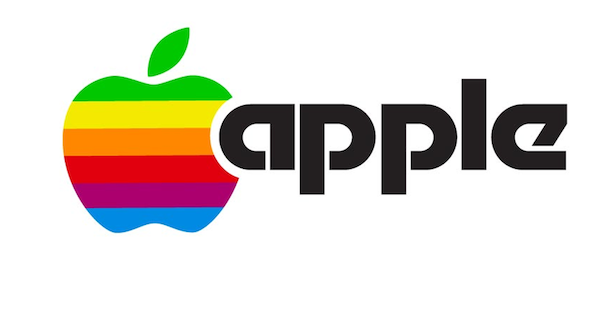
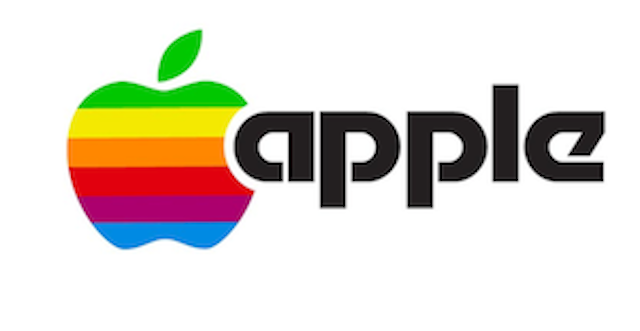
Publish deploy 2021-12-08 13:44

diff --git a/home/first-post/index.html b/home/first-post/index.html
@@ -1,1 +1,1 @@
-<!DOCTYPE html><html><head><meta charset="UTF-8"/><meta name="og:site_name" content="Blog"/><link rel="canonical" href="https://your-website-url.com/home/first-post"/><meta name="twitter:url" content="https://your-website-url.com/home/first-post"/><meta name="og:url" content="https://your-website-url.com/home/first-post"/><title>About myself! | Blog</title><meta name="twitter:title" content="About myself! | Blog"/><meta name="og:title" content="About myself! | Blog"/><meta name="description" content="Why I chose to create a Swift blog."/><meta name="twitter:description" content="Why I chose to create a Swift blog."/><meta name="og:description" content="Why I chose to create a Swift blog."/><meta name="twitter:card" content="summary_large_image"/><link rel="stylesheet" href="/styles.css" type="text/css"/><meta name="viewport" content="width=device-width, initial-scale=1.0"/><link rel="shortcut icon" href="/images/favicon.png" type="image/png"/><link rel="alternate" href="/feed.rss" type="application/rss+xml" title="Subscribe to Blog"/><meta name="twitter:image" content="https://your-website-url.com/Images/apple.png"/><meta name="og:image" content="https://your-website-url.com/Images/apple.png"/></head><body><div class="wrapper"><h3><a href="/">The Swift Refresher</a></h3></div><div class="nav-bar"><a href="/home">Home</a><a href="/combine">Combine</a><a href="/swiftUI">SwiftUI</a><a href="/dataStructures">Data Structures</a><a href="/algorithms">Algorithms</a><a href="/about">About</a></div><br/><img src="/Images/apple.png"/><br/><div class="item-article-body"><article><h1>About myself!</h1><p>Hello everyone! My name is Alex Stevens, and I decided to do what a million other people have already done. Start a Swift blog. I feel this will be a good way to advance my iOS domain knowledge, as well as serve as a point of reference for future job interviews. I plan to cover all aspects of iOS Development from Computer Science algorithms, to App Extensions, to SwiftUI/Combine.</p><p>I hope everyone joins me in on this journey, and I hope this will be a good resource to any iOS Engineer out there, no matter what part of your journey you are on. From a new grad, or a seasoned engineer looking to crack into the mobile development space, welcome!</p><p>--Alex</p></article></div><div class="footer"><div>© 2021 Blog</div><div>Generated using <a href="https://github.com/johnsundell/publish">Publish</a>. Written in Swift</div></div></body></html>
+<!DOCTYPE html><html><head><meta charset="UTF-8"/><meta name="og:site_name" content="Blog"/><link rel="canonical" href="https://your-website-url.com/home/first-post"/><meta name="twitter:url" content="https://your-website-url.com/home/first-post"/><meta name="og:url" content="https://your-website-url.com/home/first-post"/><title>About myself! | Blog</title><meta name="twitter:title" content="About myself! | Blog"/><meta name="og:title" content="About myself! | Blog"/><meta name="description" content="Why I chose to create a Swift blog."/><meta name="twitter:description" content="Why I chose to create a Swift blog."/><meta name="og:description" content="Why I chose to create a Swift blog."/><meta name="twitter:card" content="summary_large_image"/><link rel="stylesheet" href="/styles.css" type="text/css"/><meta name="viewport" content="width=device-width, initial-scale=1.0"/><link rel="shortcut icon" href="/images/favicon.png" type="image/png"/><link rel="alternate" href="/feed.rss" type="application/rss+xml" title="Subscribe to Blog"/><meta name="twitter:image" content="https://your-website-url.com/Images/apple.png"/><meta name="og:image" content="https://your-website-url.com/Images/apple.png"/></head><body><div class="wrapper"><h3><a href="/">The Swift Refresher</a></h3></div><div class="nav-bar"><a href="/home">Home</a><a href="/combine">Combine</a><a href="/swiftUI">SwiftUI</a><a href="/dataStructures">Data Structures</a><a href="/algorithms">Algorithms</a><a href="/about">About</a></div><br/><img src="/Images/apple.png" class="post-image"/><br/><div class="item-article-body"><article><h1>About myself!</h1><p>Hello everyone! My name is Alex Stevens, and I decided to do what a million other people have already done. Start a Swift blog. I feel this will be a good way to advance my iOS domain knowledge, as well as serve as a point of reference for future job interviews. I plan to cover all aspects of iOS Development from Computer Science algorithms, to App Extensions, to SwiftUI/Combine.</p><p>I hope everyone joins me in on this journey, and I hope this will be a good resource to any iOS Engineer out there, no matter what part of your journey you are on. From a new grad, or a seasoned engineer looking to crack into the mobile development space, welcome!</p><p>--Alex</p></article></div><div class="footer"><div>© 2021 Blog</div><div>Generated using <a href="https://github.com/johnsundell/publish">Publish</a>. Written in Swift</div></div></body></html>

diff --git a/home/index.html b/home/index.html
@@ -1,1 +1,1 @@
-<!DOCTYPE html><html><head><meta charset="UTF-8"/><meta name="og:site_name" content="Blog"/><link rel="canonical" href="https://your-website-url.com"/><meta name="twitter:url" content="https://your-website-url.com"/><meta name="og:url" content="https://your-website-url.com"/><title>Welcome to My Blog! | Blog</title><meta name="twitter:title" content="Welcome to My Blog! | Blog"/><meta name="og:title" content="Welcome to My Blog! | Blog"/><meta name="description" content="A description of A Blog"/><meta name="twitter:description" content="A description of A Blog"/><meta name="og:description" content="A description of A Blog"/><meta name="twitter:card" content="summary"/><link rel="stylesheet" href="/styles.css" type="text/css"/><meta name="viewport" content="width=device-width, initial-scale=1.0"/><link rel="shortcut icon" href="/images/favicon.png" type="image/png"/><link rel="alternate" href="/feed.rss" type="application/rss+xml" title="Subscribe to Blog"/></head><body><div class="wrapper"><h3><a href="/">The Swift Refresher</a></h3></div><div class="latest-post"><h3>Latest post</h3><br/><div style="display: inline-block;"><div class="column latest-post-image"><img class="post-image" src="/Images/apple.png"/></div><div class="column latest-post-text"><article><div><a class="post-category post-category-about me" href="/tags/about-me">About me</a></div><h2><a href="/home/first-post">About myself!</a></h2><p>Why I chose to create a Swift blog.</p><div><p>December 7, 2021</p></div></article></div></div></div><div class="nav-bar"><a href="/home">Home</a><a href="/combine">Combine</a><a href="/swiftUI">SwiftUI</a><a href="/dataStructures">Data Structures</a><a href="/algorithms">Algorithms</a><a href="/about">About</a></div><div class="row home-body-container" style="margin-left: 10%;margin-right: 10%;"><h2>All Posts</h2><div class="column" style="width: 70%;"><ul class="item-list"><li><img src="/Images/apple.png"/><br/><div><a class="post-category post-category-about me" href="/tags/about-me">About me</a></div><br/><article><h1><a href="/home/first-post">About myself!</a></h1><p>December 7, 2021</p></article></li></ul></div></div><div class="footer"><div>© 2021 Blog</div><div>Generated using <a href="https://github.com/johnsundell/publish">Publish</a>. Written in Swift</div></div></body></html>
+<!DOCTYPE html><html><head><meta charset="UTF-8"/><meta name="og:site_name" content="Blog"/><link rel="canonical" href="https://your-website-url.com"/><meta name="twitter:url" content="https://your-website-url.com"/><meta name="og:url" content="https://your-website-url.com"/><title>Welcome to My Blog! | Blog</title><meta name="twitter:title" content="Welcome to My Blog! | Blog"/><meta name="og:title" content="Welcome to My Blog! | Blog"/><meta name="description" content="A description of A Blog"/><meta name="twitter:description" content="A description of A Blog"/><meta name="og:description" content="A description of A Blog"/><meta name="twitter:card" content="summary"/><link rel="stylesheet" href="/styles.css" type="text/css"/><meta name="viewport" content="width=device-width, initial-scale=1.0"/><link rel="shortcut icon" href="/images/favicon.png" type="image/png"/><link rel="alternate" href="/feed.rss" type="application/rss+xml" title="Subscribe to Blog"/></head><body><div class="wrapper"><h3><a href="/">The Swift Refresher</a></h3></div><div class="latest-post"><h3>Latest post</h3><br/><div style="display: inline-block;"><div class="column latest-post-image"><img class="post-image" src="/Images/apple.png"/></div><div class="column latest-post-text"><article><div><a class="post-category post-category-about me" href="/tags/about-me">About me</a></div><h2><a href="/home/first-post">About myself!</a></h2><p>Why I chose to create a Swift blog.</p><div><p>December 7, 2021</p></div></article></div></div></div><div class="nav-bar"><a href="/home">Home</a><a href="/combine">Combine</a><a href="/swiftUI">SwiftUI</a><a href="/dataStructures">Data Structures</a><a href="/algorithms">Algorithms</a><a href="/about">About</a></div><div class="wrapper"><ul class="item-list"><li><img src="/Images/apple.png" class="post-image"/><br/><div><a class="post-category post-category-about me" href="/tags/about-me">About me</a></div><br/><article><h1><a href="/home/first-post">About myself!</a></h1><p>December 7, 2021</p></article></li></ul></div><div class="footer"><div>© 2021 Blog</div><div>Generated using <a href="https://github.com/johnsundell/publish">Publish</a>. Written in Swift</div></div></body></html>

diff --git a/index.html b/index.html
@@ -1,1 +1,1 @@
-<!DOCTYPE html><html><head><meta charset="UTF-8"/><meta name="og:site_name" content="Blog"/><link rel="canonical" href="https://your-website-url.com"/><meta name="twitter:url" content="https://your-website-url.com"/><meta name="og:url" content="https://your-website-url.com"/><title>Welcome to My Blog! | Blog</title><meta name="twitter:title" content="Welcome to My Blog! | Blog"/><meta name="og:title" content="Welcome to My Blog! | Blog"/><meta name="description" content="A description of A Blog"/><meta name="twitter:description" content="A description of A Blog"/><meta name="og:description" content="A description of A Blog"/><meta name="twitter:card" content="summary"/><link rel="stylesheet" href="/styles.css" type="text/css"/><meta name="viewport" content="width=device-width, initial-scale=1.0"/><link rel="shortcut icon" href="/images/favicon.png" type="image/png"/><link rel="alternate" href="/feed.rss" type="application/rss+xml" title="Subscribe to Blog"/></head><body><div class="wrapper"><h3><a href="/">The Swift Refresher</a></h3></div><div class="latest-post"><h3>Latest post</h3><br/><div style="display: inline-block;"><div class="column latest-post-image"><img class="post-image" src="/Images/apple.png"/></div><div class="column latest-post-text"><article><div><a class="post-category post-category-about me" href="/tags/about-me">About me</a></div><h2><a href="/home/first-post">About myself!</a></h2><p>Why I chose to create a Swift blog.</p><div><p>December 7, 2021</p></div></article></div></div></div><div class="nav-bar"><a href="/home">Home</a><a href="/combine">Combine</a><a href="/swiftUI">SwiftUI</a><a href="/dataStructures">Data Structures</a><a href="/algorithms">Algorithms</a><a href="/about">About</a></div><div class="row home-body-container" style="margin-left: 10%;margin-right: 10%;"><h2>All Posts</h2><div class="column" style="width: 70%;"><ul class="item-list"><li><img src="/Images/apple.png"/><br/><div><a class="post-category post-category-about me" href="/tags/about-me">About me</a></div><br/><article><h1><a href="/home/first-post">About myself!</a></h1><p>December 7, 2021</p></article></li></ul></div></div><div class="footer"><div>© 2021 Blog</div><div>Generated using <a href="https://github.com/johnsundell/publish">Publish</a>. Written in Swift</div></div></body></html>
+<!DOCTYPE html><html><head><meta charset="UTF-8"/><meta name="og:site_name" content="Blog"/><link rel="canonical" href="https://your-website-url.com"/><meta name="twitter:url" content="https://your-website-url.com"/><meta name="og:url" content="https://your-website-url.com"/><title>Welcome to My Blog! | Blog</title><meta name="twitter:title" content="Welcome to My Blog! | Blog"/><meta name="og:title" content="Welcome to My Blog! | Blog"/><meta name="description" content="A description of A Blog"/><meta name="twitter:description" content="A description of A Blog"/><meta name="og:description" content="A description of A Blog"/><meta name="twitter:card" content="summary"/><link rel="stylesheet" href="/styles.css" type="text/css"/><meta name="viewport" content="width=device-width, initial-scale=1.0"/><link rel="shortcut icon" href="/images/favicon.png" type="image/png"/><link rel="alternate" href="/feed.rss" type="application/rss+xml" title="Subscribe to Blog"/></head><body><div class="wrapper"><h3><a href="/">The Swift Refresher</a></h3></div><div class="latest-post"><h3>Latest post</h3><br/><div style="display: inline-block;"><div class="column latest-post-image"><img class="post-image" src="/Images/apple.png"/></div><div class="column latest-post-text"><article><div><a class="post-category post-category-about me" href="/tags/about-me">About me</a></div><h2><a href="/home/first-post">About myself!</a></h2><p>Why I chose to create a Swift blog.</p><div><p>December 7, 2021</p></div></article></div></div></div><div class="nav-bar"><a href="/home">Home</a><a href="/combine">Combine</a><a href="/swiftUI">SwiftUI</a><a href="/dataStructures">Data Structures</a><a href="/algorithms">Algorithms</a><a href="/about">About</a></div><div class="wrapper"><ul class="item-list"><li><img src="/Images/apple.png" class="post-image"/><br/><div><a class="post-category post-category-about me" href="/tags/about-me">About me</a></div><br/><article><h1><a href="/home/first-post">About myself!</a></h1><p>December 7, 2021</p></article></li></ul></div><div class="footer"><div>© 2021 Blog</div><div>Generated using <a href="https://github.com/johnsundell/publish">Publish</a>. Written in Swift</div></div></body></html>

diff --git a/tags/about-me/index.html b/tags/about-me/index.html
@@ -1,1 +1,1 @@
-<!DOCTYPE html><html><head><meta charset="UTF-8"/><meta name="og:site_name" content="Blog"/><link rel="canonical" href="https://your-website-url.com"/><meta name="twitter:url" content="https://your-website-url.com"/><meta name="og:url" content="https://your-website-url.com"/><title>Welcome to My Blog! | Blog</title><meta name="twitter:title" content="Welcome to My Blog! | Blog"/><meta name="og:title" content="Welcome to My Blog! | Blog"/><meta name="description" content="A description of A Blog"/><meta name="twitter:description" content="A description of A Blog"/><meta name="og:description" content="A description of A Blog"/><meta name="twitter:card" content="summary"/><link rel="stylesheet" href="/styles.css" type="text/css"/><meta name="viewport" content="width=device-width, initial-scale=1.0"/><link rel="shortcut icon" href="/images/favicon.png" type="image/png"/><link rel="alternate" href="/feed.rss" type="application/rss+xml" title="Subscribe to Blog"/></head><body><div class="wrapper"><h3><a href="/">The Swift Refresher</a></h3></div><div class="nav-bar"><a href="/home">Home</a><a href="/combine">Combine</a><a href="/swiftUI">SwiftUI</a><a href="/dataStructures">Data Structures</a><a href="/algorithms">Algorithms</a><a href="/about">About</a></div><h1>All posts with the tag About me</h1><div class="row home-body-container" style="margin-left: 10%;margin-right: 10%;"><h2>All Posts</h2><div class="column" style="width: 70%;"><ul class="item-list"><li><img src="/Images/apple.png"/><br/><div><a class="post-category post-category-about me" href="/tags/about-me">About me</a></div><br/><article><h1><a href="/home/first-post">About myself!</a></h1><p>December 7, 2021</p></article></li></ul></div></div><div class="footer"><div>© 2021 Blog</div><div>Generated using <a href="https://github.com/johnsundell/publish">Publish</a>. Written in Swift</div></div></body></html>
+<!DOCTYPE html><html><head><meta charset="UTF-8"/><meta name="og:site_name" content="Blog"/><link rel="canonical" href="https://your-website-url.com"/><meta name="twitter:url" content="https://your-website-url.com"/><meta name="og:url" content="https://your-website-url.com"/><title>Welcome to My Blog! | Blog</title><meta name="twitter:title" content="Welcome to My Blog! | Blog"/><meta name="og:title" content="Welcome to My Blog! | Blog"/><meta name="description" content="A description of A Blog"/><meta name="twitter:description" content="A description of A Blog"/><meta name="og:description" content="A description of A Blog"/><meta name="twitter:card" content="summary"/><link rel="stylesheet" href="/styles.css" type="text/css"/><meta name="viewport" content="width=device-width, initial-scale=1.0"/><link rel="shortcut icon" href="/images/favicon.png" type="image/png"/><link rel="alternate" href="/feed.rss" type="application/rss+xml" title="Subscribe to Blog"/></head><body><div class="wrapper"><h3><a href="/">The Swift Refresher</a></h3></div><div class="nav-bar"><a href="/home">Home</a><a href="/combine">Combine</a><a href="/swiftUI">SwiftUI</a><a href="/dataStructures">Data Structures</a><a href="/algorithms">Algorithms</a><a href="/about">About</a></div><h1>All posts with the tag About me</h1><div class="wrapper"><ul class="item-list"><li><img src="/Images/apple.png" class="post-image"/><br/><div><a class="post-category post-category-about me" href="/tags/about-me">About me</a></div><br/><article><h1><a href="/home/first-post">About myself!</a></h1><p>December 7, 2021</p></article></li></ul></div><div class="footer"><div>© 2021 Blog</div><div>Generated using <a href="https://github.com/johnsundell/publish">Publish</a>. Written in Swift</div></div></body></html>

diff --git a/MyTheme/styles.css b/MyTheme/styles.css
@@ -105,7 +105,7 @@ pre code .preprocessing {
 
 .wrapper {
     max-width: 900px;
-    /*    margin-left: auto;*/
+    margin-left: auto;
     margin-right: auto;
     padding: 40px;
     text-align: left;
@@ -215,9 +215,9 @@ a {
 }
 
 .item-list {
-    /*    display: table;*/
-    margin: 0 auto;
-    column-count: 2;
+    margin: 0;
+    padding: 0;
+    box-sizing: border-box;
 }
 
 .category-image {
@@ -271,23 +271,19 @@ a {
 /*    margin-right: 10%;*/
 /*}*/
 
-.item-list > img {
-    width: 100%
-    padding: 0px;
+.post-image {
+    width: 100%;
+    padding: 20px;
 }
 
 .item-list > li {
     display: block;
-    /*    width: 50%;*/
-    /*    border-radius: 20px;*/
-    /*    background-color: #eee;*/
-    margin-bottom: 20px;
+    border-radius: 20px;
     margin-left: auto;
     margin-right: auto;
     text-align: left;
-    /*    padding: 40px;*/
-    overflow: hidden; /* fix for Firefox */
-    break-inside: avoid-column;
+    padding: 20px;
+    overflow: hidden;
     -webkit-column-break-inside: avoid;
 }
 
@@ -357,7 +353,7 @@ footer {
     }
     
     .item-list > li {
-        /*        background-color: #333;*/
+        background-color: #333;
     }
     
     header {

diff --git a/styles.css b/styles.css
@@ -105,7 +105,7 @@ pre code .preprocessing {
 
 .wrapper {
     max-width: 900px;
-    /*    margin-left: auto;*/
+    margin-left: auto;
     margin-right: auto;
     padding: 40px;
     text-align: left;
@@ -215,9 +215,9 @@ a {
 }
 
 .item-list {
-    /*    display: table;*/
-    margin: 0 auto;
-    column-count: 2;
+    margin: 0;
+    padding: 0;
+    box-sizing: border-box;
 }
 
 .category-image {
@@ -271,23 +271,19 @@ a {
 /*    margin-right: 10%;*/
 /*}*/
 
-.item-list > img {
-    width: 100%
-    padding: 0px;
+.post-image {
+    width: 100%;
+    padding: 20px;
 }
 
 .item-list > li {
     display: block;
-    /*    width: 50%;*/
-    /*    border-radius: 20px;*/
-    /*    background-color: #eee;*/
-    margin-bottom: 20px;
+    border-radius: 20px;
     margin-left: auto;
     margin-right: auto;
     text-align: left;
-    /*    padding: 40px;*/
-    overflow: hidden; /* fix for Firefox */
-    break-inside: avoid-column;
+    padding: 20px;
+    overflow: hidden;
     -webkit-column-break-inside: avoid;
 }
 
@@ -357,7 +353,7 @@ footer {
     }
     
     .item-list > li {
-        /*        background-color: #333;*/
+        background-color: #333;
     }
     
     header {
